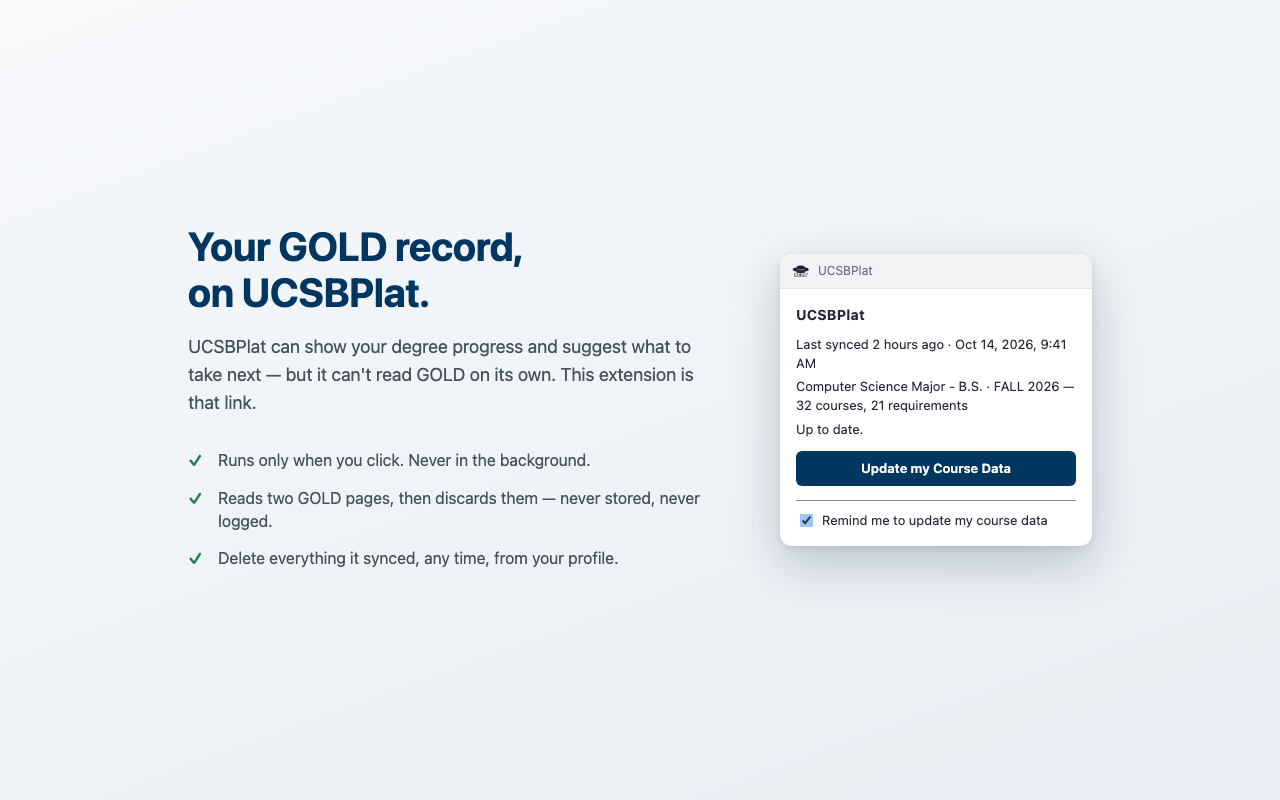
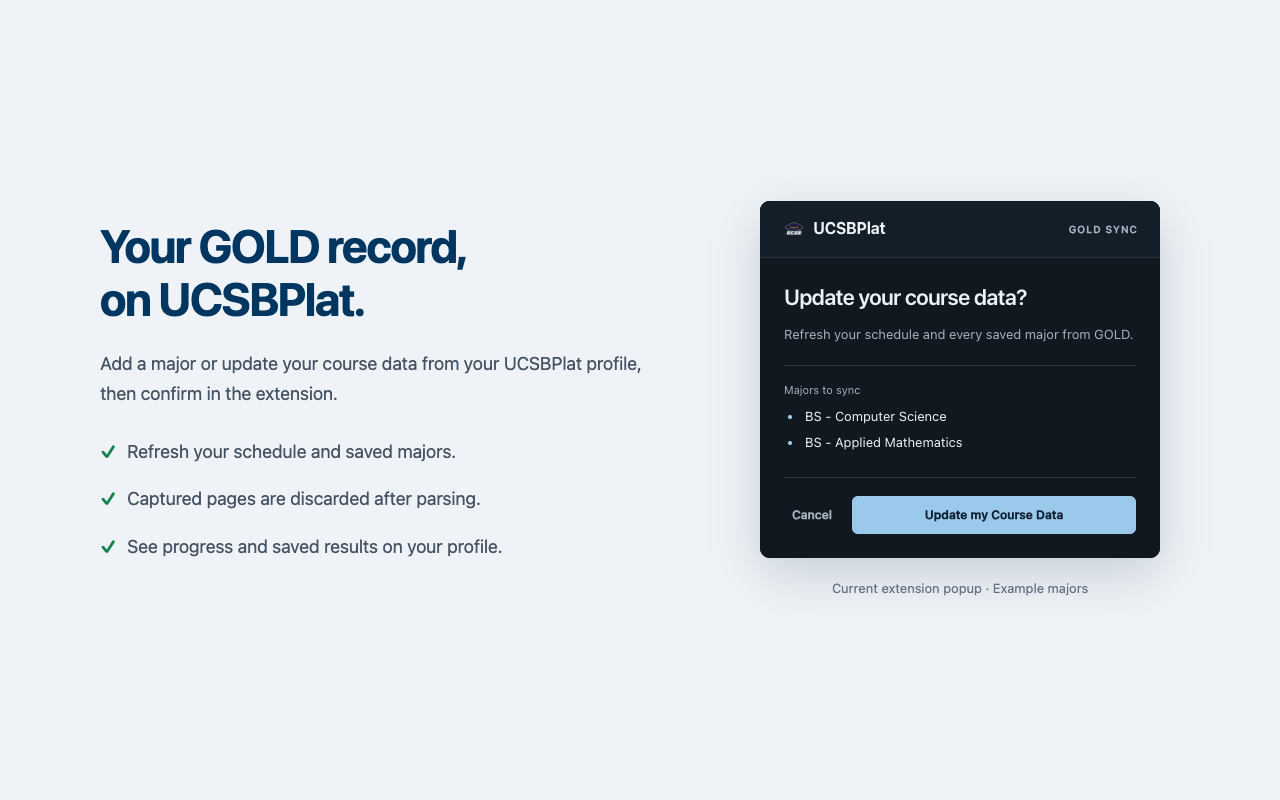
v1.6

Changed region(s): [[0.5938, 0.25, 0.9062, 0.75], [0.0625, 0.2812, 0.5312, 0.5312], [0.0938, 0.5625, 0.5312, 0.7188]]

diff --git a/STORE_LISTING.md b/STORE_LISTING.md
@@ -11,7 +11,7 @@ this file, `manifest.json`, and <https://ucsbplat.com/privacy>.
 
 ## Store listing
 
-**Name:** UCSBPlat Helper
+**Name:** UCSBPlat (matches `manifest.json`)
 
 **Short description** (132 char limit, current: 61)
 
@@ -21,11 +21,11 @@ this file, `manifest.json`, and <https://ucsbplat.com/privacy>.
 
 **Detailed description**
 
-> UCSBPlat Helper keeps your UCSBPlat course record in step with GOLD.
+> UCSBPlat keeps your course record in step with GOLD.
 >
 > UCSBPlat can show your degree progress and suggest courses to take next, but it has no
 > way to read GOLD on its own. This extension is that link. When you ask UCSBPlat to add
-> your selected major, or click "Update my Course Data" on your profile, the extension shows the action
+> or refresh a selected major, or click "Update my Course Data" on your profile, the extension shows the action
 > for confirmation, opens the relevant GOLD pages, reads them using the GOLD session you
 > are already signed in to, and sends the result to your UCSBPlat account.
 >
@@ -96,21 +96,22 @@ hosted scripts. Everything executed ships in the package. The functions passed t
 
 ### Data types collected
 
-Tick, and nothing else:
+Tick:
 
 - **Website content** — the contents of the two GOLD pages (courses, grades, degree
   requirements, class times).
+- **Personally identifiable information** — captured page contents can contain a student's
+  name and other identifiers. They are transmitted to UCSBPlat even though the parser
+  does not extract or retain the GOLD name as a structured field.
 
-Do **not** tick: personally identifiable information, authentication information, health,
-financial and payment, personal communications, location, web history, or user activity.
-None are collected.
+Do **not** tick: authentication information, health, financial and payment, personal
+communications, location, web history, or user activity. The extension does not collect
+these separately. Class meeting rooms are included in website content, not device location.
 
-> Note, in case a reviewer asks: the GOLD pages are page contents and a student's name is
-> rendered on them, which is what "website content" covers and what the privacy policy
-> describes. Nothing pulls it out — the server parses courses and requirements and keeps
-> no name — so no personally identifiable information is collected as such. Authentication
-> is likewise nothing the extension handles: the request carries whatever session cookie
-> the browser already attaches, and the extension neither reads nor stores a cookie.
+Transient transmission is still collection; do not omit the personal-information disclosure
+just because the server discards the HTML. The extension neither reads nor stores session
+cookies or GOLD passwords; the browser attaches the UCSBPlat session cookie to API requests.
+See Google's [privacy-field instructions](https://developer.chrome.com/docs/webstore/cws-dashboard-privacy).
 
 ### Certifications
 
@@ -140,8 +141,8 @@ after the rest is done.
 
 ## Store images
 
-All three required images are in `store/` and `icons/`, and none of them ship inside the
-extension package — they are uploaded through the dashboard.
+All three required images are in `store/` and `icons/`. Icons also ship in the extension;
+the promotional tile and screenshot are uploaded only through the dashboard.
 
 | Dashboard field | File | Notes |
 | --- | --- | --- |
@@ -152,20 +153,39 @@ extension package — they are uploaded through the dashboard.
 The screenshot is a real render of the popup: the extension's own `popup.css` and markup,
 captured in a browser, not a drawing of it. The record shown in it is invented. A listing
 image is public, and a real transcript is the one thing that must never be in one.
+Regenerate it with `node render-store.cjs` (Playwright on `NODE_PATH`, optional `CHROME_PATH`).
+The script intercepts all network requests and supplies synthetic confirmation data.
 
 ## Before uploading
 
-1. `./package.sh` — must print `clean` and roughly 32K. It refuses to build if
-   `sample-data/` (real academic records) is in the archive.
-2. Confirm `manifest.json` has no `http://localhost` host permission and that
-   `config.js` points at `HOSTED_ORIGIN`.
+1. `./package.sh --release` — must print `clean`. It builds a hosted release from an
+   explicit file list without changing the development checkout. Both harnesses, docs,
+   store images, and `sample-data/` are excluded.
+2. Inspect the **archived** `manifest.json` and `config.js`: no localhost permissions or
+   externally connectable matches; active origin must be `HOSTED_ORIGIN`.
 3. **Deploy the website first**, then read <https://ucsbplat.com/privacy> against this
    file. Every disclosure here must be true *of the live site* — a reviewer reads the
-   deployed policy, not the repository. In particular the "no personally identifiable
-   information" answer below depends on the server having stopped parsing the student
-   name, which is a deploy, not a code change.
-4. The published extension gets a permanent ID different from the unpacked one. Add it to
-   `EXTENSION_ID` on the server, or the API will answer 403 — see the README.
+   deployed policy, not the repository. Disclose personal information in the dashboard
+   because full GOLD page contents can include it, even though raw HTML is discarded.
+4. The existing published ID `cffmlcefmeeeiidkdffgjimpjojiibap` and current development ID
+   are already configured in the website bridge and API allowlist. No manual ID setup
+   is needed for an update to this store item. A different unpacked checkout may need
+   its localhost mapping and server allowlist updated — see the README.
+5. Verify both September migrations are applied before the website rollout:
+   `2026_09_gold_audit_selection.sql`, then `2026_09_student_audits.sql`. Pause GOLD writes
+   during the initial migration until all workers run the multi-major website code.
+   Protocol v5 requires the matching website and Redis. This release needs no additional migration.
+6. Load the extracted release package unpacked and complete the real-GOLD checks in
+   `README.md`: add, full update with two majors, secondary refresh, close/retry, and
+   reopen the popup mid-run. Verify the published extension ID and production cookies too.
+7. Upload to the **existing** Web Store item `cffmlcefmeeeiidkdffgjimpjojiibap` so its ID
+   stays stable. Confirm version `1.6` is higher than every previously uploaded package;
+   if it has already been uploaded, increment the manifest version and rebuild.
+8. Replace the old screenshot with the current one, apply both data disclosures above,
+   verify publisher contact email and two-step verification, and provide reviewer test
+   instructions for the signed-in UCSBPlat/GOLD flow. Never share a real student's login
+   or transcript; use an authorized test account or ask review support for the accepted
+   alternative when GOLD access cannot be provided.
 
 ## Website actions (v1.6 / protocol v5)
 

diff --git a/README.md b/README.md
@@ -70,11 +70,13 @@ the browser sends `chrome-extension://<id>` as the Origin, which is what the ser
 content script would send `my.sa.ucsb.edu` and be rejected with 403. The call sets
 `credentials: "include"`; without it every request is a 401.
 
-**The extension id must be listed in `EXTENSION_ID` on the server.** It is on `chrome://extensions`,
-and a 403 names it in the error message. An unpacked id is derived from the folder path, so it
-varies per checkout; a published id is permanent. The server takes a comma-separated list so both
-can be allowed at once — or paste the published item's public key into `manifest.json` as `"key"` to
-make the unpacked build use the published id.
+**The published and current development IDs are already configured.** The website bridge
+uses `cffmlcefmeeeiidkdffgjimpjojiibap` on production and
+`hfooonebbcahpcdcfcanochcgfkioggg` on localhost; the API allowlist includes both. Updating
+the existing store item needs no ID or environment change. If a different unpacked
+checkout gets a different ID, update the localhost bridge mapping and allow that ID through
+the server's comma-separated `EXTENSION_ID`, then restart the website workers. The actual
+ID appears on `chrome://extensions` and in a rejected sync's 403 message.
 
 **Cross-site cookies.** Chrome only attaches a cookie to the extension's request if it is
 `SameSite=None; Secure`. Every 401 is reported the same way — sign in and run it again — because
@@ -191,6 +193,10 @@ controls in isolated Chrome. `CHROME_PATH` can point at an installed Chrome bina
 the actual injected functions: dependent lists, label/value matching, ambiguity rejection,
 checkbox idempotence, and stale versus fresh audit output. It makes no network requests.
 
+`node render-store.cjs` uses the same browser setup to regenerate the store screenshot
+from the current popup with synthetic website confirmation data. It makes no external
+requests and is excluded from release archives.
+
 ### Manual GOLD checks still needed
 
 1. Add a major using the actual labels from both GOLD dropdowns. Verify the popup names it,
@@ -203,6 +209,8 @@ checkbox idempotence, and stale versus fresh audit output. It makes no network r
 5. Reopen the popup mid-run and verify live steps resume. Inspect server-reported partial
    results when an ordinary audit capture fails, and check real cookies/long MV3 runs.
 
-For release verification, use a temporary release copy, restore hosted configuration,
-remove localhost from both manifest lists, and run `./package.sh`. Keep the development
-checkout pointed at localhost. Real GOLD/Chrome behavior still needs an unpacked-browser sync.
+For release verification, run `./package.sh --release`. It builds from an explicit file
+list in a temporary directory, restores hosted configuration there, and removes localhost
+from both manifest lists. The development checkout stays pointed at localhost. Running
+`./package.sh` without the flag still refuses local configuration. Real GOLD/Chrome
+behavior still needs an unpacked-browser sync.

diff --git a/AGENTS.md b/AGENTS.md
@@ -58,7 +58,9 @@ Three settings move together: set `UCSBPLAT_ORIGIN` to `LOCAL_ORIGIN` in `config
 `externally_connectable.matches`. The localhost entries are deliberately not left in a release
 manifest — a published extension asking for plain-http localhost access is a permission it can
 never use and one more thing for a reviewer to query. **Undo all three before packaging.**
-`package.sh` refuses to build while any local-development setting remains.
+`package.sh` refuses to build while any local-development setting remains. Use
+`./package.sh --release` to prepare hosted configuration in a temporary allowlisted copy
+without changing the development checkout.
 
 ## Web Store submission
 
